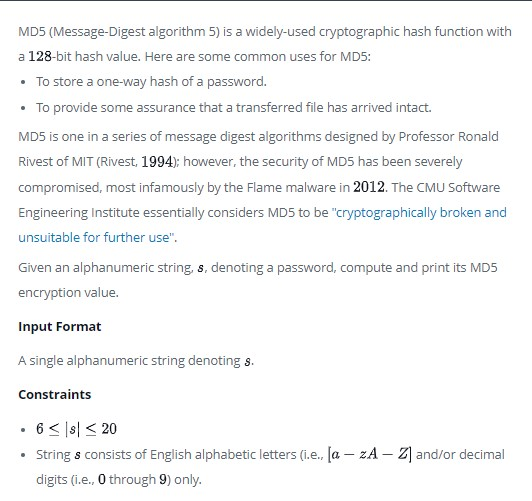
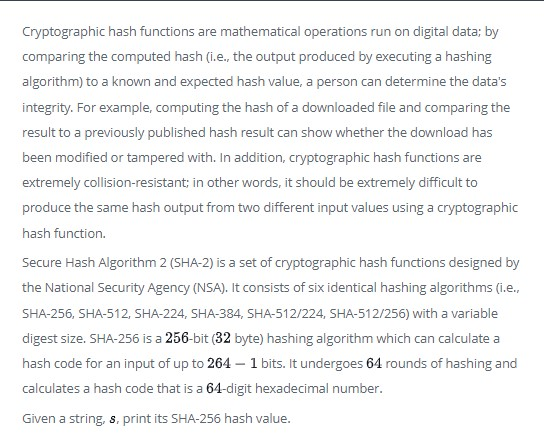
new files added

Changed region(s): [[0.0301, 0.0297, 0.9624, 0.9817], [0.7519, 0.8924, 0.9624, 0.9222]]

diff --git a/Solution.java b/Solution.java
@@ -1,25 +1,17 @@
 import java.io.*;
 import java.util.*;
-import java.security.MessageDigest;
-import java.util.Scanner;
+import java.security.*;
 
 public class Solution {
 
-    public static void main(String[] args) {
-        /* Enter your code here. Read input from STDIN. Print output to STDOUT. Your class should be named Solution. */
-        Scanner sc = new Scanner(System.in);
-        String str = sc.next();
-        sc.close();
-        try {
-            MessageDigest md = MessageDigest.getInstance("MD5");
-            md.update(str.getBytes());
-            // return bytesToHex(md.digest
-            byte[] digest = md.digest();
-            for (byte b : digest) {
-                System.out.printf("%02x", b);
-            }
-        } catch (Exception ex) {
-            throw new RuntimeException(ex);
+    public static void main(String[] args) throws NoSuchAlgorithmException {
+        Scanner input = new Scanner(System.in);
+        MessageDigest m = MessageDigest.getInstance("SHA-256");
+        m.reset();
+        m.update(input.nextLine().getBytes());
+        for (byte i : m.digest()) {
+            System.out.print(String.format("%02x", i));
         }
+        System.out.println();
     }
 }
